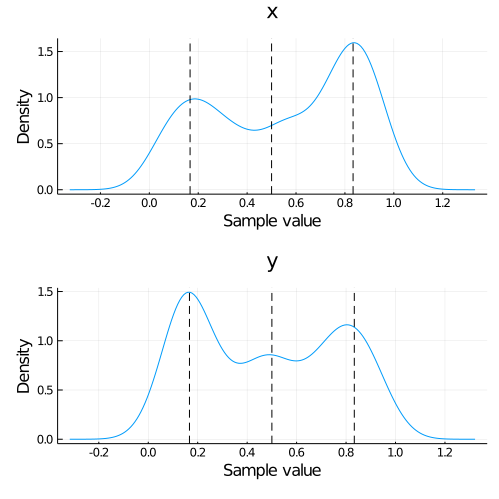
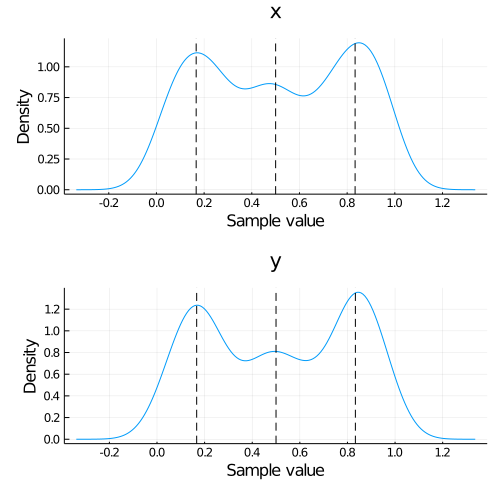
re-weave README

diff --git a/README.md b/README.md
@@ -70,7 +70,7 @@ chain = sample(model, spl;
 ````
 Object of type Chains, with data of type 360×3×1 Array{Float64,3}
 
-Log evidence      = 2.0701573203683425
+Log evidence      = 2.0732388578259826
 Iterations        = 1:360
 Thinning interval = 1
 Chains            = 1
@@ -78,19 +78,19 @@ Samples per chain = 360
 internals         = weights
 parameters        = x, y
 
-2-element Array{ChainDataFrame,1}
+2-element Array{MCMCChains.ChainDataFrame,1}
 
 Summary Statistics
   parameters    mean     std  naive_se    mcse       ess   r_hat
   ──────────  ──────  ──────  ────────  ──────  ────────  ──────
-           x  0.5576  0.2995    0.0158  0.0353  316.7012  1.0099
-           y  0.4751  0.2918    0.0154  0.0119  424.7692  0.9974
+           x  0.5123  0.3071    0.0162  0.0086  397.0281  0.9972
+           y  0.5149  0.3072    0.0162  0.0244  355.1881  1.0012
 
 Quantiles
   parameters    2.5%   25.0%   50.0%   75.0%   97.5%
   ──────────  ──────  ──────  ──────  ──────  ──────
-           x  0.0378  0.2695  0.6037  0.8383  0.9600
-           y  0.0554  0.1864  0.4624  0.7642  0.9509
+           x  0.0293  0.2202  0.5088  0.8070  0.9799
+           y  0.0437  0.1992  0.5071  0.8212  0.9667
 ````
 
 
@@ -129,10 +129,12 @@ NestedModel(loglike, priors::AbstractVector{<:Distribution})
 
 ```
 Nested(ndims, nactive;
-    bounds=Bounds.Ellipsoid,
-    proposal=Proposals.Uniform(),
-    enlarge=1.2,
-    update_interval=round(Int, 0.6nactive))
+    bounds=Bounds.MultiEllipsoid,
+    proposal=:auto,
+    enlarge=1.25,
+    update_interval=default_update_interval(proposal),
+    min_ncall=2nactive,
+    min_eff=0.10)
 ```
 
 Static nested sampler with `nactive` active points and `ndims` parameters.
@@ -141,14 +143,22 @@ Static nested sampler with `nactive` active points and `ndims` parameters.
 
 ## Bounds and Proposals
 
-`bounds` declares the Type of [`Bounds.AbstractBoundingSpace`](@ref) to use in the prior volume. The available bounds are described by [`Bounds`](@ref). `proposal` declares the algorithm used for proposing new points. The available proposals are described in [`Proposals`](@ref).
+`bounds` declares the Type of [`Bounds.AbstractBoundingSpace`](@ref) to use in the prior volume. The available bounds are described by [`Bounds`](@ref). `proposal` declares the algorithm used for proposing new points. The available proposals are described in [`Proposals`](@ref). If `proposal` is `:auto`, will choose the proposal based on `ndims`
 
-The original nested sampling algorithm is equivalent to using `Bounds.Ellipsoid` with `Proposals.Uniform`. The MultiNest algorithm is equivalent to `Bounds.MultiEllipsoid` with `Proposals.Uniform`.
+  * `ndims < 10` - [`Proposals.Uniform`](@ref)
+  * `ndims ≥ 10` - [`Proposals.RWalk`](@ref)
+
+The original nested sampling algorithm is roughly equivalent to using `Bounds.Ellipsoid` with `Proposals.Uniform`. The MultiNest algorithm is roughly equivalent to `Bounds.MultiEllipsoid` with `Proposals.Uniform`.
 
 ## Other Parameters
 
   * `enlarge` - When fitting the bounds to live points, they will be enlarged (in terms of volume) by this linear factor.
-  * `update_interval` - How often to refit the live points with the bounds
+  * `update_interval` - How often to refit the live points with the bounds as a fraction of `nactive`. By default this will be determined using `default_update_interval` for the given proposal
+
+      * `Proposals.Uniform` - `1.5`
+      * `Proposals.RWalk` - `0.15walks`
+  * `min_ncall` - The minimum number of iterations before trying to fit the first bound
+  * `min_eff` - The maximum efficiency before trying to fit the first bound
 
 
 
@@ -189,7 +199,9 @@ Bounds.Ellipsoid(center::AbstractVector, A::AbstractMatrix)
 
 An `N`-dimensional ellipsoid defined by
 
-$ (x - center)^T A (x - center) = 1 $
+$$
+(x - center)^T A (x - center) = 1
+$$
 
 where `size(center) == (N,)` and `size(A) == (N,N)`.
 
